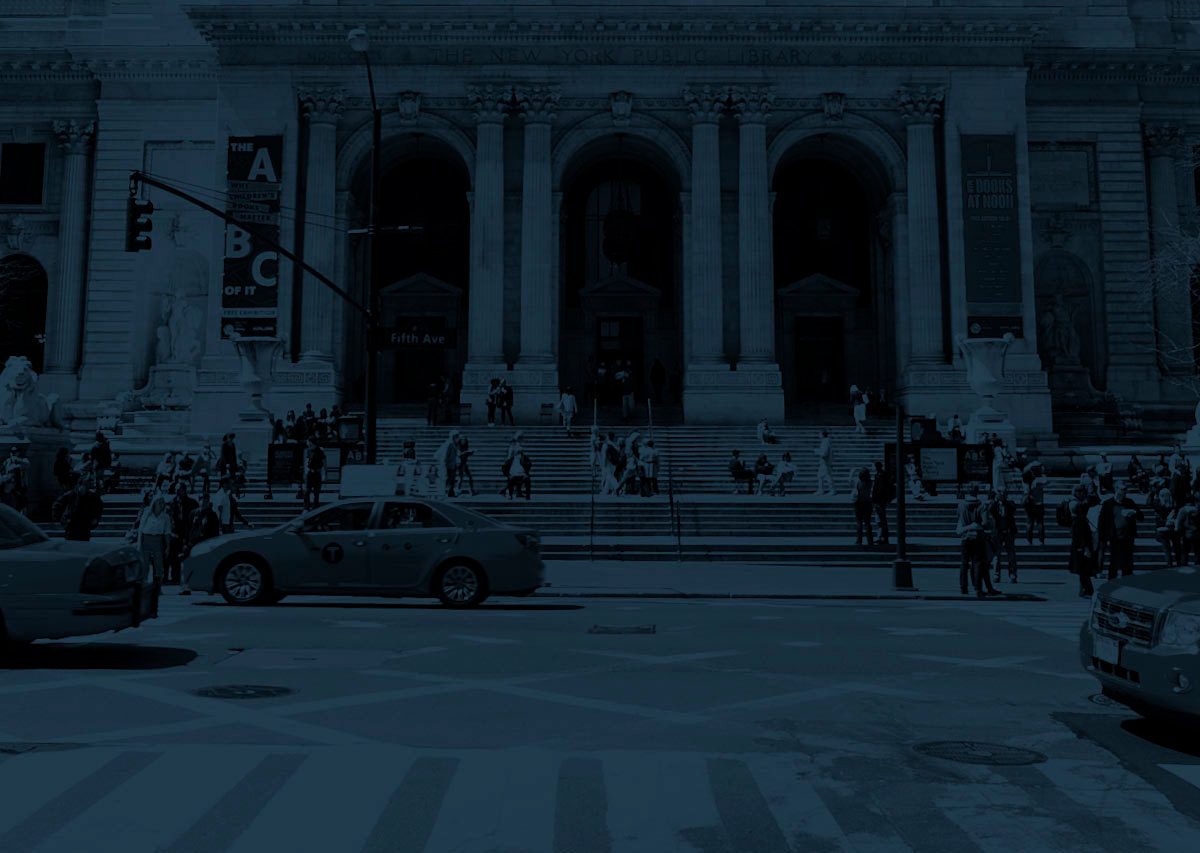
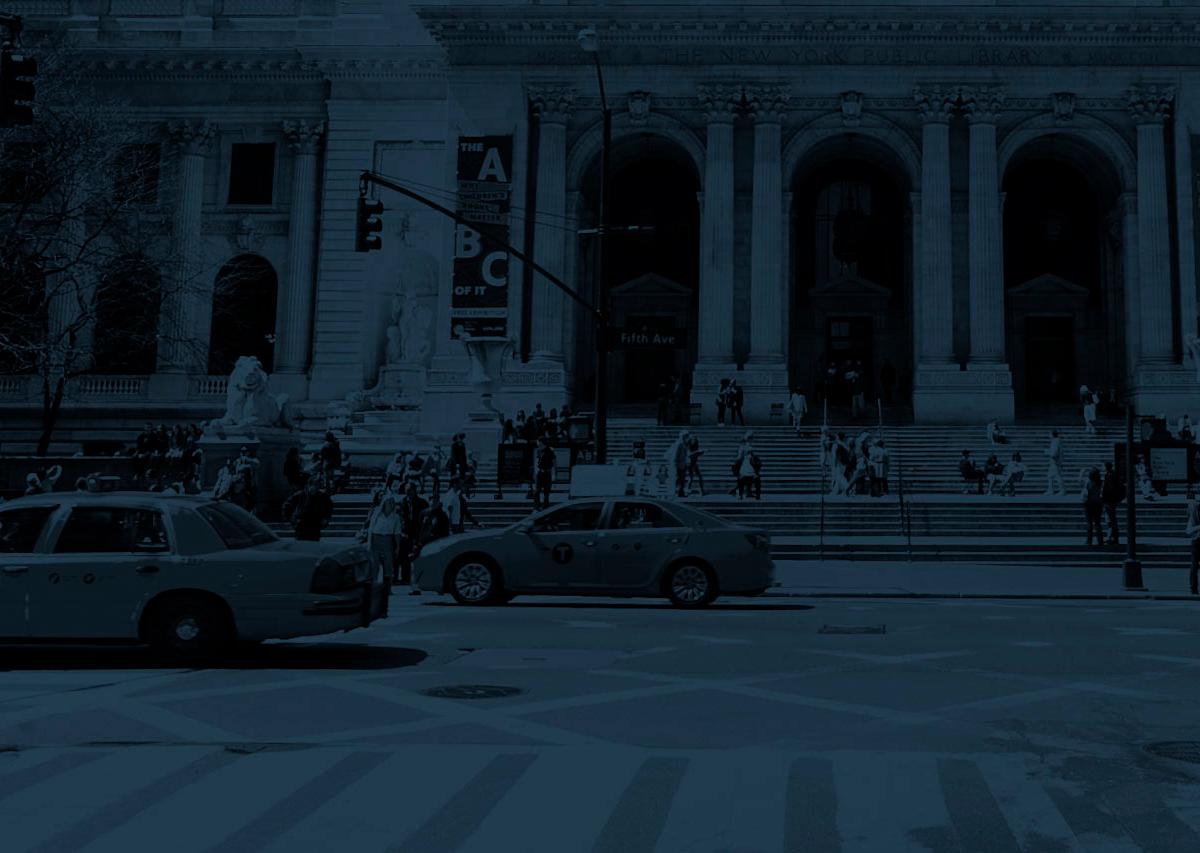
17.01

diff --git a/source/index.html b/source/index.html
@@ -10,8 +10,14 @@
   <header class="page-header">
     <div class="page-header__wrapper page-header__menu page-header__menu--closed">
       <div class="container container--header page-header__logo-wrapper">
-        <a class="page-header__logo"><img class="page-header__logo-img" src="img/pink-logo.svg" width="74" height="23" alt="Логотип Pink"></a>
-        <svg class="page-header__logo-tablet" width="145" height="40" viewBox="0 0 145 40" fill="currentColor" xmlns="http://www.w3.org/2000/svg">
+        <a class="page-header__logo">
+          <picture>
+            <source media="(min-width: 1200px)" srcset="img/logo-desktop.svg" width="147" height="40" alt="Логотип Pink">
+            <source media="(min-width: 660px)" srcset="img/logo-tablet.svg" width="145" height="40" alt="Логотип Pink">
+            <img class="page-header__logo-mobile" src="img/logo-mobile.svg" width="74" height="23" alt="Логотип Pink">
+          </picture>
+        </a>
+        <!-- <svg class="page-header__logo-tablet" width="145" height="40" viewBox="0 0 145 40" fill="currentColor" xmlns="http://www.w3.org/2000/svg">
           <path fill-rule="evenodd" clip-rule="evenodd" d="M53.8917 6.58616L58.9302 27.7312C59.0013 27.9491 59.0184 28.1815 58.98 28.4078C58.9417 28.634 58.849 28.8472 58.7102 29.0284C58.5715 29.2096 58.3909 29.3532 58.1845 29.4465C57.978 29.5398 57.7522 29.58 57.5268 29.5635H53.5201C52.8298 35.3747 47.9494 39.8784 42.0315 39.8784C36.1136 39.8784 31.2332 35.3747 30.543 29.5635H28.5778C27.8869 35.442 22.9527 40 16.9685 40C10.9742 40 6.0335 35.4266 5.35571 29.5337H1.45014C1.22961 29.5445 1.00974 29.5015 0.808914 29.4082C0.608085 29.315 0.432119 29.1743 0.295711 28.9979C0.159304 28.8214 0.0664152 28.6144 0.0248022 28.3941C-0.0168108 28.1737 -0.00593994 27.9464 0.0565069 27.7312L5.10477 6.58616C5.45562 4.25872 7.63865 0 13.4861 0C13.8738 0 14.2456 0.156518 14.5197 0.435122C14.7939 0.713727 14.9479 1.0916 14.9479 1.4856C14.9479 1.87961 14.7939 2.25748 14.5197 2.53608C14.2456 2.81468 13.8738 2.9712 13.4861 2.9712C8.7789 2.9712 8.04797 6.6654 7.9895 7.07146L3.3408 26.6022H5.37467C6.12089 20.7847 11.0272 16.2918 16.9685 16.2918C22.9066 16.2918 27.8107 20.7798 28.5611 26.5926L30.5587 26.6017C31.3043 20.8518 36.1567 16.4134 42.0315 16.4134C47.9178 16.4134 52.7776 20.8691 53.5086 26.6353V26.5824H55.6459L51.007 7.07146C50.9387 6.6654 50.237 2.9712 45.5104 2.9712C45.1227 2.9712 44.7509 2.81468 44.4767 2.53608C44.2026 2.25748 44.0485 1.87961 44.0485 1.4856C44.0485 1.0916 44.2026 0.713727 44.4767 0.435122C44.7509 0.156518 45.1227 0 45.5104 0C51.3578 0 53.5408 4.25872 53.8917 6.58616ZM25.6722 29.5635C25.7448 29.1018 25.7825 28.6283 25.7825 28.1459C25.7825 27.6164 25.7371 27.0977 25.65 26.5935C24.9252 22.3982 21.3141 19.2097 16.9685 19.2097C12.6203 19.2097 9.00753 22.402 8.28571 26.601C8.19945 27.1028 8.15447 27.619 8.15447 28.1459C8.15447 28.6205 8.19096 29.0864 8.26125 29.541C8.92191 33.8136 12.5687 37.0821 16.9685 37.0821C21.3605 37.0821 25.0023 33.8251 25.6722 29.5635ZM50.6138 29.5635C50.6874 29.102 50.7256 28.6285 50.7256 28.1459C50.7256 23.2777 46.8331 19.3313 42.0315 19.3313C37.2299 19.3313 33.3374 23.2777 33.3374 28.1459C33.3374 28.6285 33.3756 29.102 33.4492 29.5635C34.118 33.7577 37.7058 36.9605 42.0315 36.9605C46.3572 36.9605 49.945 33.7577 50.6138 29.5635Z"/>
           <path d="M71.005 18.5486C71.0049 18.2125 71.1358 17.8898 71.3697 17.6494C71.6037 17.409 71.9221 17.2701 72.2568 17.2623H79.39C84.4469 17.2623 87.7751 19.9645 87.7751 24.3918V24.4516C87.7751 29.2977 83.7415 31.8105 78.9727 31.8105H73.5384V38.611C73.5539 38.7874 73.5328 38.9651 73.4762 39.1329C73.4196 39.3006 73.3289 39.4547 73.2097 39.5854C73.0906 39.716 72.9457 39.8204 72.7842 39.8918C72.6227 39.9631 72.4481 40 72.2717 40C72.0952 40 71.9207 39.9631 71.7592 39.8918C71.5977 39.8204 71.4527 39.716 71.3336 39.5854C71.2145 39.4547 71.1237 39.3006 71.0671 39.1329C71.0106 38.9651 70.9894 38.7874 71.005 38.611V18.5486ZM79.0721 29.5171C82.7778 29.5171 85.2119 27.5228 85.2119 24.5314V24.4716C85.2119 21.2608 82.8175 19.5956 79.2509 19.5956H73.588V29.4772L79.0721 29.5171Z"/>
           <path d="M92.5935 18.389C92.5779 18.2126 92.5991 18.0349 92.6556 17.8671C92.7122 17.6994 92.803 17.5452 92.9221 17.4146C93.0412 17.2839 93.1862 17.1796 93.3477 17.1082C93.5092 17.0369 93.6837 17 93.8602 17C94.0366 17 94.2112 17.0369 94.3727 17.1082C94.5342 17.1796 94.6791 17.2839 94.7982 17.4146C94.9174 17.5452 95.0081 17.6994 95.0647 17.8671C95.1213 18.0349 95.1425 18.2126 95.1269 18.389V38.611C95.1425 38.7874 95.1213 38.9651 95.0647 39.1329C95.0081 39.3006 94.9174 39.4548 94.7982 39.5854C94.6791 39.7161 94.5342 39.8204 94.3727 39.8918C94.2112 39.9631 94.0366 40 93.8602 40C93.6837 40 93.5092 39.9631 93.3477 39.8918C93.1862 39.8204 93.0412 39.7161 92.9221 39.5854C92.803 39.4548 92.7122 39.3006 92.6556 39.1329C92.5991 38.9651 92.5779 38.7874 92.5935 38.611V18.389Z"/>
@@ -29,7 +35,7 @@
           <path d="M50.9203 15.9169C50.3273 15.9182 49.7398 15.8045 49.1915 15.5822C48.6432 15.36 48.1448 15.0337 47.725 14.6219C47.3052 14.21 46.9721 13.7209 46.7448 13.1823C46.5176 12.6438 46.4006 12.0665 46.4006 11.4835C46.3979 12.6602 45.9206 13.7878 45.0733 14.619C44.2259 15.4501 43.0778 15.9169 41.8809 15.9169C43.0788 15.9195 44.2268 16.3885 45.0739 17.2212C45.9209 18.0539 46.3979 19.1825 46.4006 20.3602C46.4006 19.1817 46.8768 18.0516 47.7244 17.2183C48.572 16.385 49.7216 15.9169 50.9203 15.9169Z" fill="#D22856"/>
           <path d="M38.0744 19.3826C37.3418 19.3826 36.6393 19.0966 36.1213 18.5873C35.6033 18.0781 35.3123 17.3875 35.3123 16.6673C35.3123 17.3857 35.0227 18.0749 34.5069 18.5839C33.9911 19.0928 33.2911 19.38 32.5603 19.3826C33.2902 19.3826 33.9902 19.6677 34.5063 20.1751C35.0224 20.6824 35.3123 21.3706 35.3123 22.0881C35.315 21.3697 35.6072 20.6816 36.1249 20.1745C36.6426 19.6674 37.3436 19.3826 38.0744 19.3826Z" fill="#D22856"/>
           <path d="M10.785 33.6407C10.056 33.6355 9.35856 33.3471 8.84491 32.8384C8.33126 32.3298 8.04302 31.6421 8.04303 30.9253C8.04304 31.6438 7.75342 32.333 7.2376 32.8419C6.72178 33.3508 6.02182 33.6381 5.29102 33.6407C6.02182 33.6433 6.72178 33.9305 7.2376 34.4395C7.75342 34.9484 8.04304 35.6376 8.04303 36.356C8.04302 35.6393 8.33126 34.9516 8.84491 34.4429C9.35856 33.9343 10.056 33.6459 10.785 33.6407Z" fill="#D22856"/>
-        </svg>
+        </svg> -->
         <button class="page-header__toggle" type="button"><span class="visually-hidden">Открыть меню</span>
         </button>
         <nav class="main-nav page-header__nav page-header__nav--nojs">

diff --git a/source/catalog.html b/source/catalog.html
@@ -63,7 +63,7 @@
           <picture>
             <source media="(min-width: 1200px)" srcset="img/catalog/panorama-desktop.jpg, img/catalog/panorama-desktop@2x.jpg 2x">
             <source media="(min-width: 660px)" srcset="img/catalog/panorama-tabet.jpg, img/catalog/panorama-tablet@2x.jpg 2x">
-            <img class="photos-item__pic-mobile photos-item__pic-mobile--first" src="img/catalog/panorama.jpg" srcset="img/catalog/panorama@2x.jpg 2x" alt="Вид с высоты">
+            <img class="photos-item__pic photos-item__pic--first" src="img/catalog/panorama.jpg" srcset="img/catalog/panorama@2x.jpg 2x" alt="Вид с высоты">
           </picture>
         </a>
       </div>
@@ -82,7 +82,7 @@
               <picture>
                 <source media="(min-width: 1200px)" srcset="img/catalog/photo-1-desktop.jpg, img/catalog/photo-1-desktop@2x.jpg 2x">
                 <source media="(min-width: 660px)" srcset="img/catalog/photo-1-tablet.jpg, img/catalog/photo-1-tablet@2x.jpg 2x">
-                <img class="photos-item__pic-mobile" src="img/catalog/photo-1-mobile.jpg" srcset="img/catalog/photo-1-mobile@2x.jpg 2x" alt="Изображение машины">
+                <img class="photos-item__pic" src="img/catalog/photo-1-mobile.jpg" srcset="img/catalog/photo-1-mobile@2x.jpg 2x" alt="Изображение машины">
               </picture>
             </a>
             <div class="photos-item__caption">
@@ -99,7 +99,7 @@
               <picture>
                 <source media="(min-width: 1200px)" srcset="img/catalog/photo-2-desktop.jpg, img/catalog/photo-2-desktop@2x.jpg 2x">
                 <source media="(min-width: 660px)" srcset="img/catalog/photo-2-tablet.jpg, img/catalog/photo-2-tablet@2x.jpg 2x">
-                <img class="photos-item__pic-mobile" src="img/catalog/photo-2-mobile.jpg" srcset="img/catalog/photo-2-mobile@2x.jpg 2x" alt="Барабаны">
+                <img class="photos-item__pic" src="img/catalog/photo-2-mobile.jpg" srcset="img/catalog/photo-2-mobile@2x.jpg 2x" alt="Барабаны">
               </picture>
               </a>
             <div class="photos-item__caption">
@@ -116,7 +116,7 @@
               <picture>
                 <source media="(min-width: 1200px)" srcset="img/catalog/photo-3-desktop.jpg, img/catalog/photo-3-desktop@2x.jpg 2x">
                 <source media="(min-width: 660px)" srcset="img/catalog/photo-3-tablet.jpg, img/catalog/photo-3-tablet@2x.jpg 2x">
-                <img class="photos-item__pic-mobile" src="img/catalog/photo-3-mobile.jpg" srcset="img/catalog/photo-3-mobile@2x.jpg 2x" alt="Небо">
+                <img class="photos-item__pic" src="img/catalog/photo-3-mobile.jpg" srcset="img/catalog/photo-3-mobile@2x.jpg 2x" alt="Небо">
               </picture>
             </a>
             <div class="photos-item__caption">
@@ -133,7 +133,7 @@
               <picture>
                 <source media="(min-width: 1200px)" srcset="img/catalog/photo-4-desktop.jpg, img/catalog/photo-4-desktop@2x.jpg 2x">
                 <source media="(min-width: 660px)" srcset="img/catalog/photo-4-tablet.jpg, img/catalog/photo-4-tablet@2x.jpg 2x">
-                <img class="photos-item__pic-mobile" src="img/catalog/photo-4-mobile.jpg" srcset="img/catalog/photo-4-mobile@2x.jpg 2x" alt="Рынок">
+                <img class="photos-item__pic" src="img/catalog/photo-4-mobile.jpg" srcset="img/catalog/photo-4-mobile@2x.jpg 2x" alt="Рынок">
               </picture>
             </a>
             <div class="photos-item__caption">
@@ -150,7 +150,7 @@
               <picture>
                 <source media="(min-width: 1200px)" srcset="img/catalog/photo-5-desktop.jpg, img/catalog/photo-5-desktop@2x.jpg 2x">
                 <source media="(min-width: 660px)" srcset="img/catalog/photo-5-tablet.jpg, img/catalog/photo-5-tablet@2x.jpg 2x">
-                <img class="photos-item__pic-mobile" src="img/catalog/photo-5-mobile.jpg" srcset="img/catalog/photo-5-mobile@2x.jpg 2x" alt="Горы">
+                <img class="photos-item__pic" src="img/catalog/photo-5-mobile.jpg" srcset="img/catalog/photo-5-mobile@2x.jpg 2x" alt="Горы">
               </picture>
               </a>
             <div class="photos-item__caption">
@@ -167,7 +167,7 @@
               <picture>
                 <source media="(min-width: 1200px)" srcset="img/catalog/photo-6-desktop.jpg, img/catalog/photo-6-desktop@2x.jpg 2x">
                 <source media="(min-width: 660px)" srcset="img/catalog/photo-6-tablet.jpg, img/catalog/photo-6-tablet@2x.jpg 2x">
-                <img class="photos-item__pic-mobile" src="img/catalog/photo-6-mobile.jpg" srcset="img/catalog/photo-6-mobile@2x.jpg 2x" alt="Крыло самолета">
+                <img class="photos-item__pic" src="img/catalog/photo-6-mobile.jpg" srcset="img/catalog/photo-6-mobile@2x.jpg 2x" alt="Крыло самолета">
               </picture>
               </a>
             <div class="photos-item__caption">

diff --git a/source/sass/blocks/page-header.scss b/source/sass/blocks/page-header.scss
@@ -10,8 +10,8 @@
     background-size: cover;
 
     @media (min-resolution: 2dppx) {
-      background-image: url("..img/back-mobile.png");
-      background-size: 320px auto;
+      background-image: url("../img/back-mobile@2x.png");
+      background-size: 100% 462px;
     }
   }
 }
@@ -116,9 +116,9 @@
   z-index: 1;
 }
 
-.page-header__logo {
+.page-header__logo-mobile {
   margin-left: 20px;
-  height: 23px;
+  // height: 23px;
   display: block;
 }
 
@@ -139,13 +139,12 @@
 @media (min-width: $tablet-width) {
   .page-header {
     background:
-      url("../img/phone-tablet.png") no-repeat bottom center,
+      url("../img/phone-tablet.png") no-repeat bottom right,
       url("../img/back-tablet.png") no-repeat center / cover;
 
     @media (min-resolution: 2dppx) {
-      background:
-        url("../img/phone-tablet@2x.png"),
-        url("../img/back-tablet@2x.png");
+      background-image: url("../img/phone-tablet@2x.png"), url("../img/back-tablet@2x.png");
+      background-size: 660px 545px, 100% 750px;
     }
 
     &--inner {
@@ -168,8 +167,8 @@
     top: 43px;
   }
 
-  .page-header__logo {
-    display: none;
+  .page-header__logo-mobile {
+    // display: none;
 
     @media (min-resolution: 2dppx) {
       background-image: url("../img/back-tablet.png@2x");
@@ -204,13 +203,12 @@
 @media (min-width: $desktop-width) {
   .page-header {
     background:
-      url("../img/phone-desktop.png") no-repeat bottom center,
+      url("../img/phone-desktop.png") no-repeat bottom right -226px,
       url("../img/back-desktop.png") no-repeat center / cover;
 
     @media (min-resolution: 2dppx) {
-      background:
-        url("../img/phone-desktop@2x.png"),
-        url("../img/back-desktop@2x.png");
+      background-image: url("../img/phone-desktop@2x.png"), url("../img/back-desktop@2x.png");
+      background-size: 1050px 645px, 100% 892px;
     }
   }
 

diff --git a/source/sass/blocks/photos-item.scss b/source/sass/blocks/photos-item.scss
@@ -1,38 +1,27 @@
 .photos-item {
   text-align: left;
-  width: 100%;
 }
 
 .photos-item__pic {
-  display: none;
-}
-
-.photos-item__pic-mobile {
   display: block;
   margin: 0 auto;
+  width: 100%;
+  height: 100%;
+
 
   &--first {
-    height: 137px;
-    width: 100vw;
+    object-fit: cover;
   }
-}
-
-.photos-item__pic-tablet {
-  margin: 0 auto;
-  display: none;
-}
-
-.photos-item__pic-desktop {
-  margin: 0 auto;
-  display: none;
 }
 
 .photos-item__link {
   display: block;
-}
+  height: 180px;
+  width: 100%;
 
-.photos-item__link--first {
-  display: block;
+  &--first {
+    height: 137px;
+  }
 }
 
 .photos-item__wrapper {
@@ -93,30 +82,18 @@
 }
 
 @media (min-width: $tablet-width) {
-  .photos-item__pic {
-    display: block;
-  }
-
-  .photos-item__pic-mobile {
+  .photos-item__link {
     height: 300px;
+    width: 100%;
 
     &--first {
       height: 509px;
     }
   }
 
-  .photos-item__pic-tablet {
-    display: block;
-  }
-
-  .photos-item__pic-desktop {
-    display: none;
-  }
-
   .photos-item {
     display: flex;
     flex-direction: column;
-    width: 100%;
 
     &--first {
       margin: 0;
@@ -175,24 +152,9 @@
 }
 
 @media (min-width: $desktop-width) {
-  .photos-item__pic-mobile {
+  .photos-item__link {
     height: 400px;
-  }
-
-  .photos-item {
     width: 100%;
-  }
-
-  .photos-item__pic {
-    display: block;
-  }
-
-  .photos-item__pic-tablet {
-    display: none;
-  }
-
-  .photos-item__pic-desktop {
-    display: block;
   }
 
   .photos-item__wrapper {

diff --git a/source/sass/blocks/banner.scss b/source/sass/blocks/banner.scss
@@ -108,7 +108,12 @@
     z-index: -1;
     background:
       url("../img/phone-mobile.png") no-repeat bottom center,
-      url("../img/back-mobile.png") no-repeat center / cover;
+      url("../img/back-mobile.png") no-repeat top center / cover;
+
+    @media (min-resolution: 2dppx) {
+      background-image: url("../img/phone-mobile@2x.png"), url("../img/back-mobile@2x.png"),;
+      background-size: 320px 286px, 100% 462px;
+    }
   }
 
   @media (min-width: $tablet-width) {
